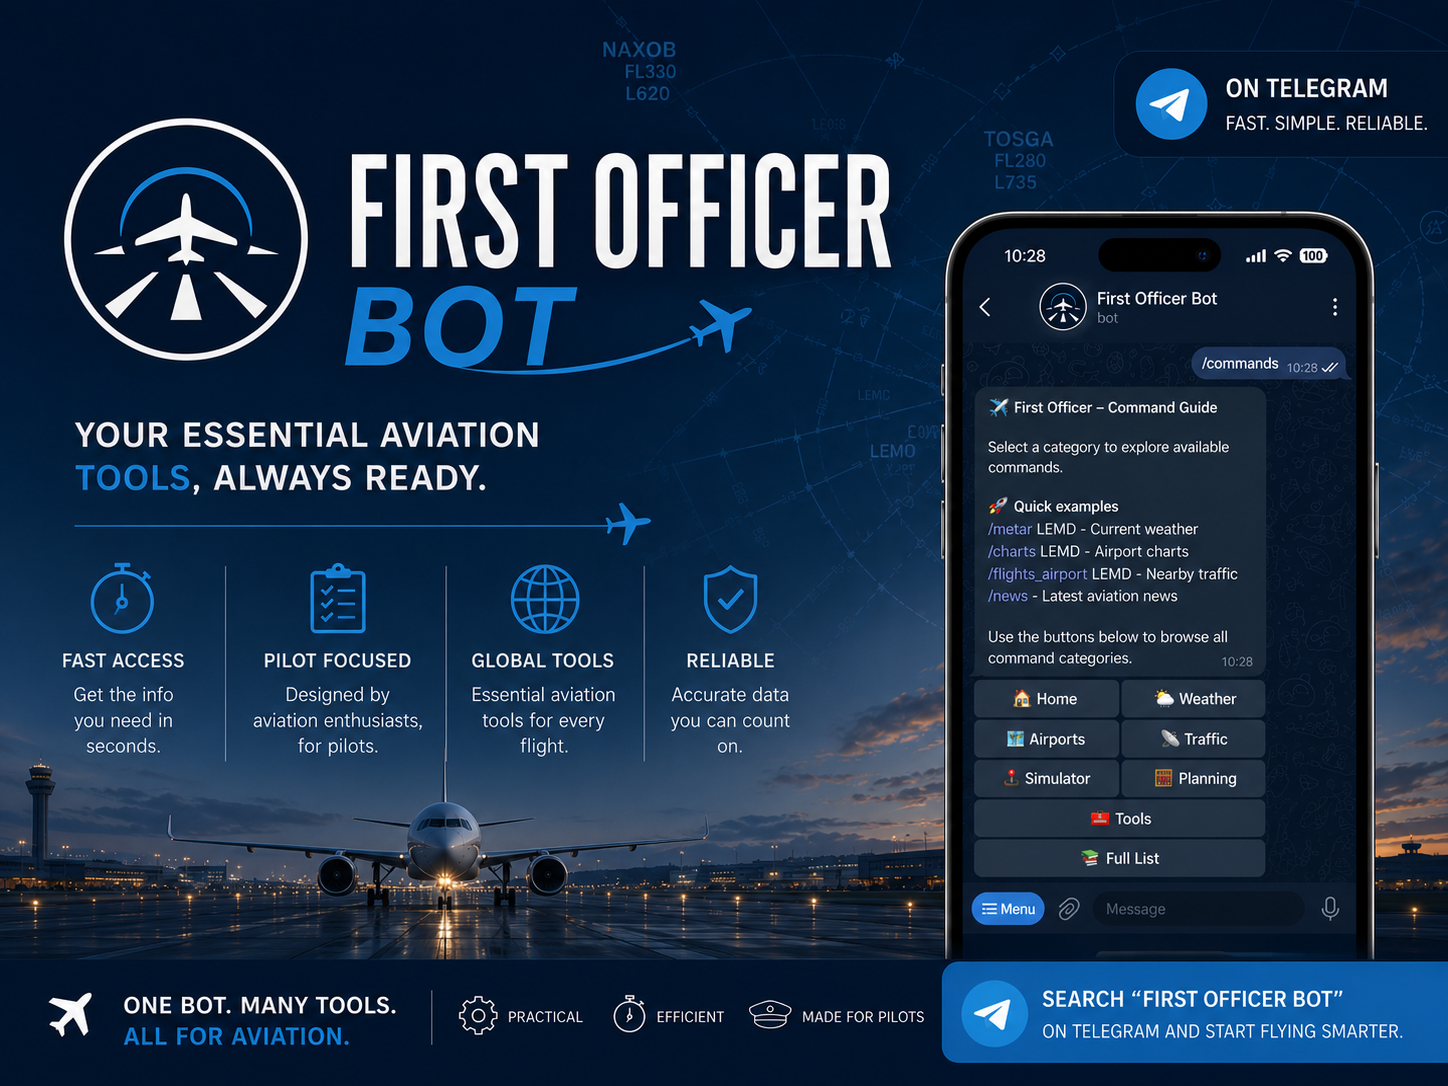
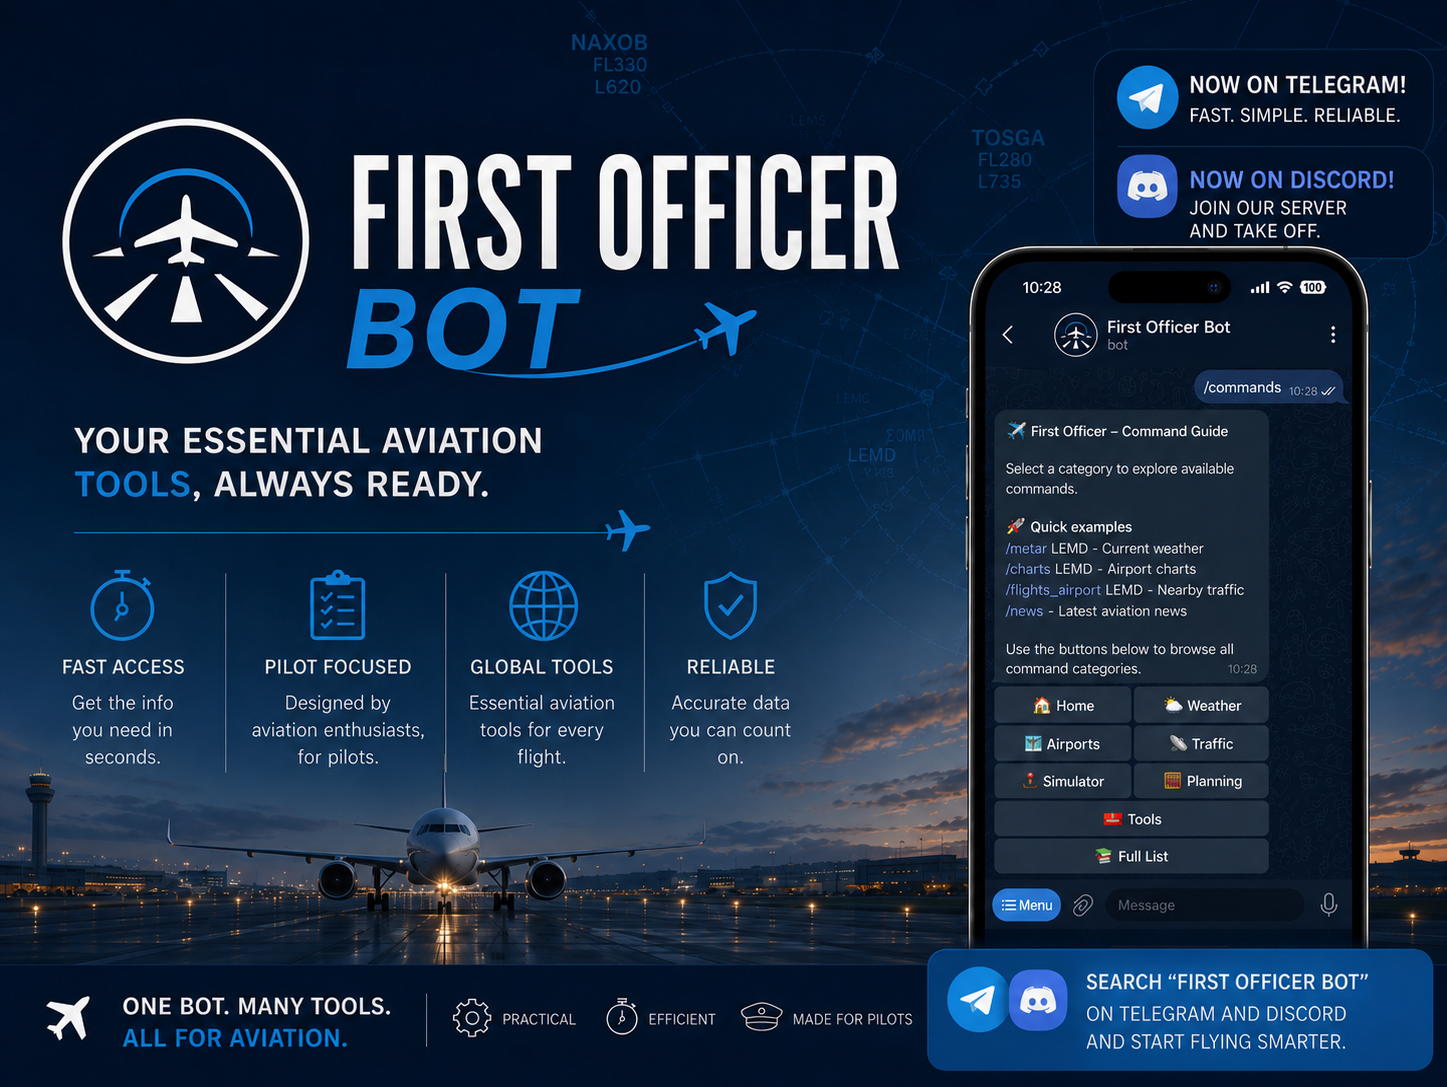
Add files via upload

diff --git a/index.html b/index.html
@@ -104,7 +104,7 @@
             
             <div id="home" class="tab-content active text-center max-w-3xl mx-auto py-8">
                 <div class="mb-8 rounded-xl overflow-hidden shadow-2xl border border-blue-500/20">
-                    <img src="./banner.png" alt="First Officer Bot Telegram Banner" class="w-full h-auto object-cover bg-slate-950 block">
+                    <img src="./banner.png" alt="First Officer Bot Telegram & Discord Banner" class="w-full h-auto object-cover bg-slate-950 block">
                 </div>
                 
                 <h2 class="text-3xl font-bold mb-4">Welcome to First Officer Bot 🤖</h2>
@@ -118,6 +118,12 @@
                     </a>
                     <a href="https://t.me/fob_support" target="_blank" class="w-full sm:w-auto bg-slate-900/80 hover:bg-slate-800 text-gray-200 font-semibold py-3.5 px-8 rounded-xl transition-all border border-slate-700 flex items-center justify-center gap-2">
                         <i class="fas fa-comments text-lg text-sky-400"></i> Join Support Group
+                    </a>
+                    <a href="https://discord.com/oauth2/authorize?client_id=1538489345185546240" target="_blank" rel="noopener noreferrer" class="w-full sm:w-auto bg-indigo-600 hover:bg-indigo-500 text-white font-bold py-3.5 px-8 rounded-xl transition-all shadow-lg shadow-indigo-600/20 flex items-center justify-center gap-2">
+                        <i class="fab fa-discord text-xl"></i> Add to Discord
+                    </a>
+                    <a href="https://discord.gg/atqnHMSMJ7" target="_blank" rel="noopener noreferrer" class="w-full sm:w-auto bg-slate-900/80 hover:bg-slate-800 text-gray-200 font-semibold py-3.5 px-8 rounded-xl transition-all border border-slate-700 flex items-center justify-center gap-2">
+                        <i class="fab fa-discord text-lg text-indigo-400"></i> Join Discord Support
                     </a>
                 </div>
             </div>
